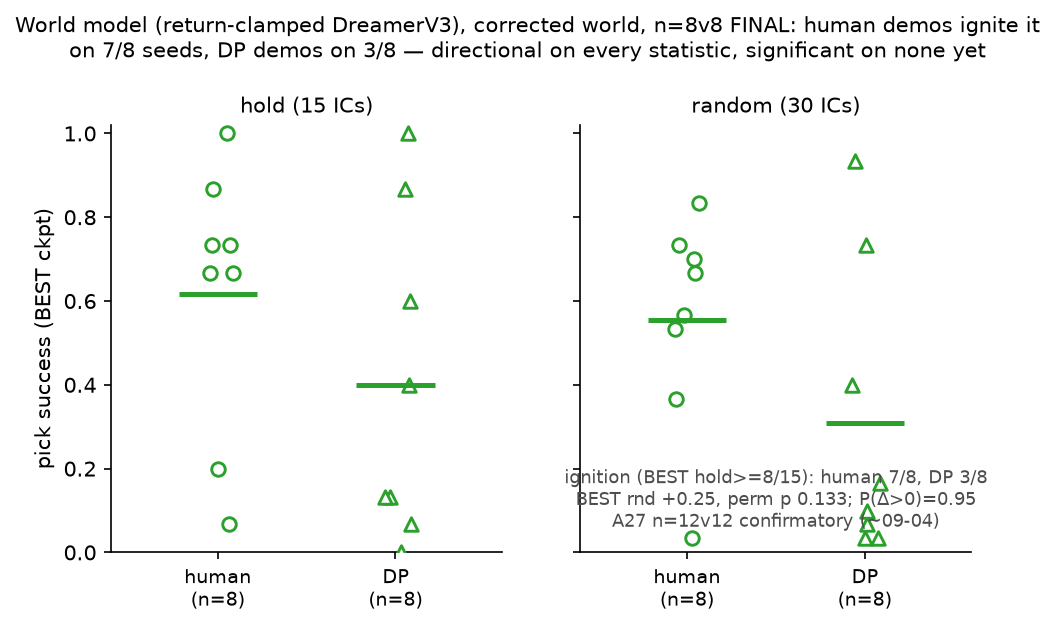
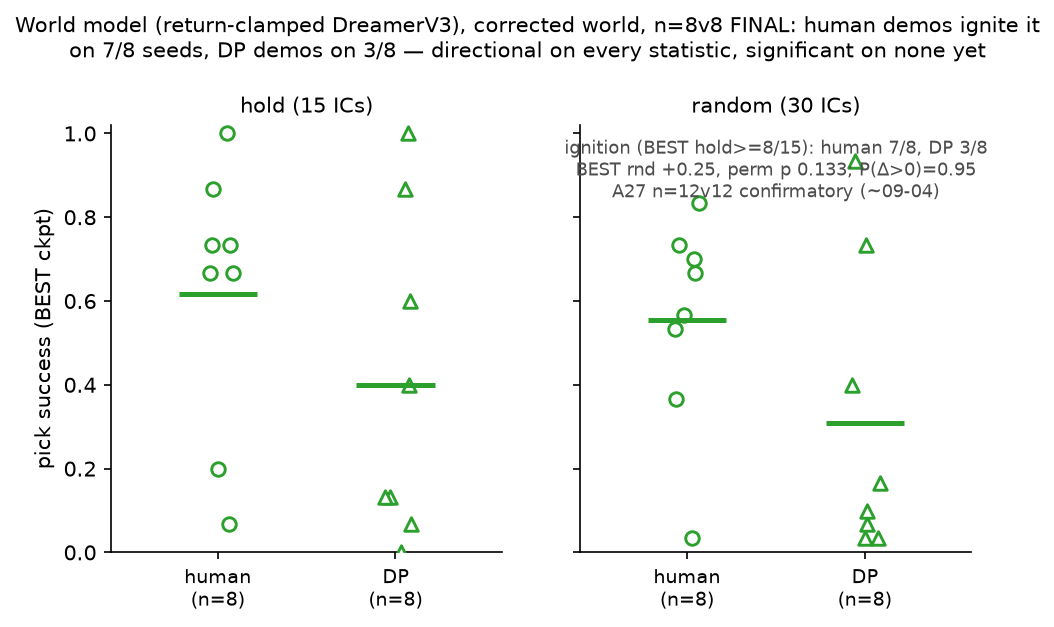
fig4: move annotation clear of data

Changed region(s): [[0.5465, 0.2121, 0.9412, 0.3333], [0.5465, 0.7273, 0.9412, 0.8485]]

diff --git a/paper/figures/make_figs_2026-08-31.py b/paper/figures/make_figs_2026-08-31.py
@@ -168,8 +168,8 @@ for ax_, hk, rk, ttl in [(a, 'dH_hold', 'dDP_hold', 'hold (15 ICs)'), (b, 'dH_rn
     ax_.set_xticks([0, 1]); ax_.set_xticklabels(['human\n(n=8)', 'DP\n(n=8)'], fontsize=9)
     ax_.set_xlim(-0.6, 1.6); ax_.set_ylim(0, 1.02); ax_.set_title(ttl, fontsize=10)
 a.set_ylabel('pick success (BEST ckpt)')
-b.text(0.5, 0.06, 'ignition (BEST hold>=8/15): human 7/8, DP 3/8\nBEST rnd +0.25, perm p 0.133; P(Δ>0)=0.95\nA27 n=12v12 confirmatory (~09-04)',
-       ha='center', fontsize=8.5, color='0.3', transform=b.transAxes)
+b.text(0.5, 0.97, 'ignition (BEST hold>=8/15): human 7/8, DP 3/8\nBEST rnd +0.25, perm p 0.133; P(Δ>0)=0.95\nA27 n=12v12 confirmatory (~09-04)',
+       ha='center', va='top', fontsize=8.5, color='0.3', transform=b.transAxes)
 fig.suptitle('World model (return-clamped DreamerV3), corrected world, n=8v8 FINAL: human demos ignite it\n'
              'on 7/8 seeds, DP demos on 3/8 — directional on every statistic, significant on none yet', y=1.08, fontsize=10)
 fig.savefig(f'{OUT}/fig4_r2d_w3.png'); fig.savefig(f'{OUT}/fig4_r2d_w3.pdf')
